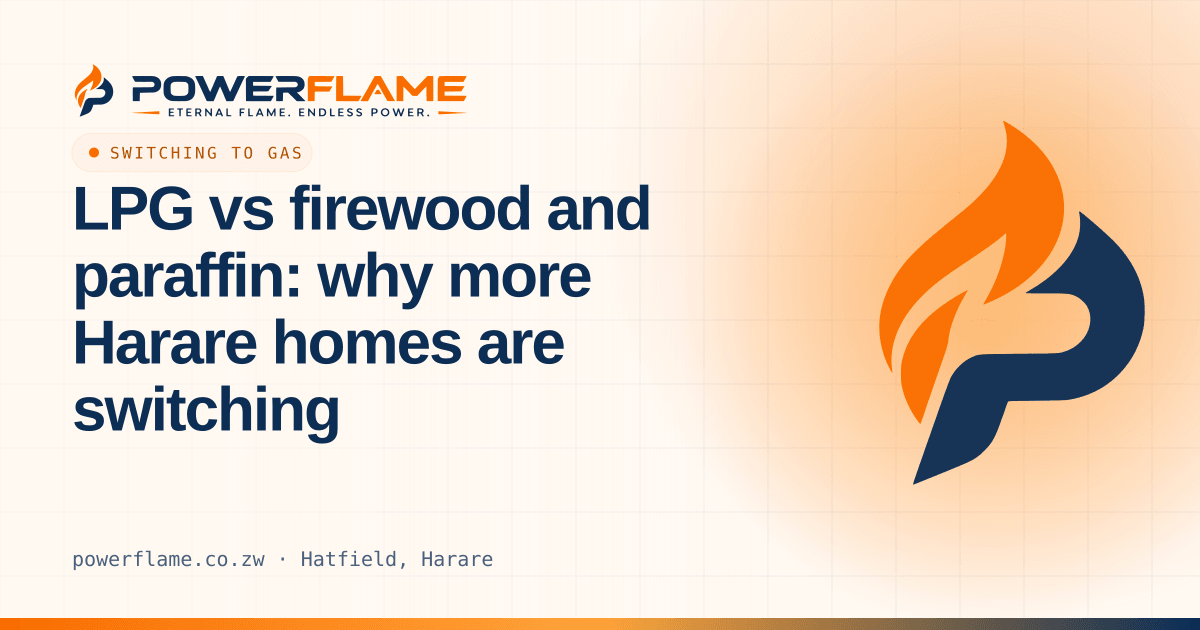
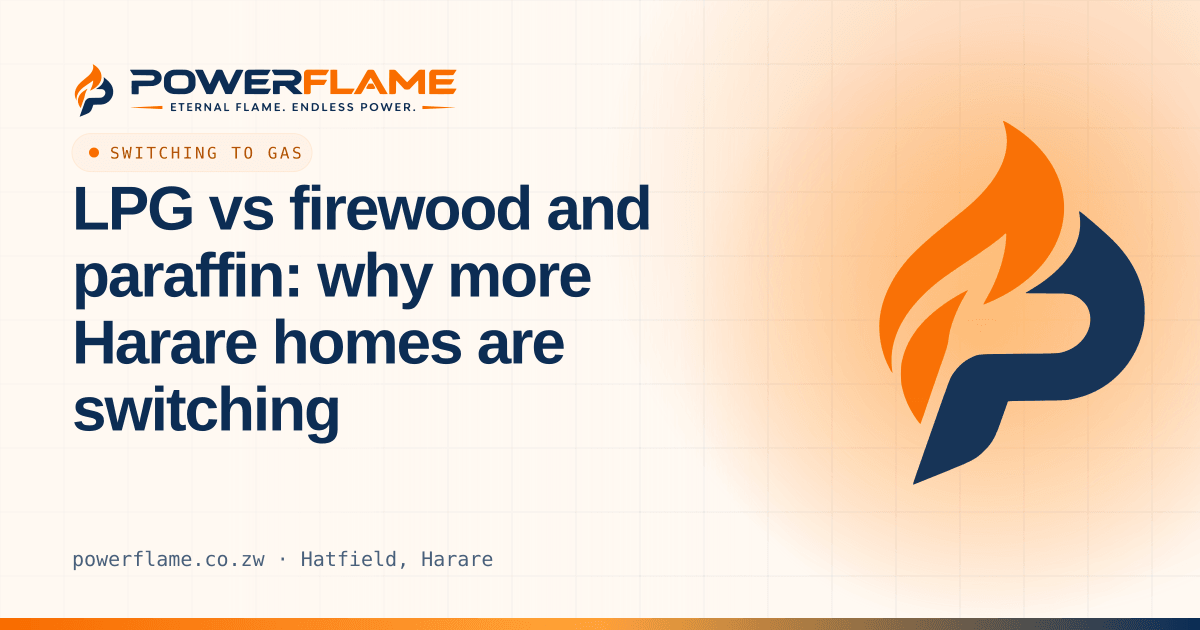
Refactor code structure and remove redundant functions for improved readability and maintainability

Changed region(s): [[0.0925, 0.0905, 0.4008, 0.181], [0.925, 0.9952, 0.9558, 1.0]]

diff --git a/src/components/ui/Logo/paths.ts b/src/components/ui/Logo/paths.ts
@@ -13,21 +13,12 @@ export const MARK_FLAME =
 export const MARK_P =
   'M28.84 12.19C29.13 13.82 28.95 15.18 28.27 16.62C27.28 18.7 25.19 20.75 22.49 22.31C22.09 22.54 21.76 22.75 21.76 22.77C21.76 22.8 22.99 22.82 24.49 22.82C27.53 22.82 27.69 22.84 28.52 23.25C29.06 23.52 29.75 24.19 29.98 24.71C30.99 26.86 29.62 29.54 27.06 30.42C26.18 30.73 26.31 30.72 20.94 30.76C15.33 30.81 15.68 30.78 14.68 31.23C13.59 31.72 12.48 32.81 11.92 33.93C11.72 34.31 10.38 38.05 8.56 43.29C8.16 44.44 7.63 45.95 7.39 46.64C7.14 47.33 6.96 47.92 6.97 47.95C7.01 48.01 7.12 47.96 8.82 47.26C9.58 46.95 10.96 46.39 11.88 46.02C14.9 44.79 15.34 44.55 16.44 43.44C17.46 42.41 17.83 41.72 18.73 39.12C19.11 38.04 19.44 37.11 19.46 37.06C19.51 36.98 20.01 36.96 23.24 36.94C27.26 36.9 27.31 36.9 28.68 36.55C33.11 35.43 36.49 31.76 37.33 27.21C37.48 26.41 37.51 24.51 37.39 23.62C37.01 20.77 35.65 18.19 33.27 15.81C32.32 14.85 29.01 12 28.86 12C28.84 12 28.82 12.09 28.84 12.19';
 
-/** Wordmark "POWERFLAME": 318.86 × 24 viewBox */
-export const WORDMARK_WIDTH = 318.86;
-export const WORDMARK_HEIGHT = 24;
-/** "POWER" (navy) */
-export const WORD_POWER =
-  'M0.06 0.11C0.02 0.18 0.35 0.91 0.8 1.74C1.25 2.58 1.86 3.68 2.13 4.2C2.41 4.72 2.72 5.24 2.81 5.36C2.99 5.56 3.46 5.57 11.13 5.56L19.25 5.54 19.85 5.8C21.66 6.57 22.05 8.77 20.63 10.03C19.77 10.78 20.07 10.76 10.08 10.76C2.54 10.76 0.96 10.78 0.84 10.92C0.74 11.03 0.72 12.86 0.73 17.51L0.77 23.94 4.08 23.94L7.39 23.94 7.42 20.05C7.44 17.77 7.5 16.1 7.57 16.02C7.65 15.93 9.35 15.88 13.92 15.85C20.76 15.82 21.28 15.78 23.11 15.12C25.37 14.31 26.84 12.79 27.5 10.58C27.84 9.45 27.81 6.48 27.45 5.39C26.54 2.68 25 1.34 21.64 0.33C20.75 0.07 20.71 0.07 10.44 0.02C3.44 0 0.12 0.02 0.06 0.11M38.96 0.13C34.04 0.87 31 3.48 30.2 7.66C29.99 8.71 29.96 15.11 30.15 16.32C30.68 19.65 32.73 22.12 35.87 23.26C37.74 23.92 37.67 23.92 44.45 23.98C51.26 24.02 51.98 23.99 53.73 23.44C57.55 22.25 59.5 19.87 60.06 15.78C60.31 13.96 60.17 7.98 59.85 6.83C59.04 3.88 57.03 1.82 54.03 0.84C51.58 0.05 51.91 0.08 45.52 0.05C42.3 0.04 39.35 0.07 38.96 0.13M60.13 0.11C60.08 0.17 60.76 1.62 61.61 3.33C63.03 6.16 64.55 9.32 64.55 9.4C64.55 9.42 64.92 10.21 65.38 11.17C65.84 12.13 66.21 12.92 66.21 12.95C66.21 12.96 66.93 14.57 67.81 16.5C68.7 18.46 69.8 20.87 70.25 21.87C70.71 22.88 71.14 23.78 71.21 23.86C71.29 23.96 72.09 24 74.49 24L77.67 24 77.85 23.73C77.95 23.57 78.29 22.82 78.61 22.04C79.55 19.73 80.84 16.68 81.35 15.55C81.61 14.97 82.23 13.5 82.73 12.3C83.28 11.02 83.73 10.1 83.82 10.08C83.94 10.06 84.17 10.43 84.5 11.21C86.32 15.42 88.28 20.07 88.91 21.64C89.31 22.64 89.71 23.59 89.8 23.74L89.98 24 93.19 23.98L96.39 23.94 97.17 22.29C97.6 21.36 98.15 20.19 98.39 19.68C99.83 16.58 101.13 13.79 102.12 11.7C102.48 10.96 103.02 9.79 103.33 9.1C103.64 8.42 104.55 6.54 105.34 4.91C107.55 0.35 107.62 0.22 107.5 0.11C107.3-0.09 100.48 0.04 100.36 0.24C100.3 0.33 99.57 1.93 98.73 3.78C97.89 5.64 96.98 7.63 96.71 8.22C96.44 8.81 95.88 10 95.47 10.88C94.12 13.75 93.73 14.6 93.62 14.87C93.4 15.45 93.32 15.31 91.74 11.47C90.87 9.32 89.38 5.76 88.65 4.03C88.4 3.42 87.97 2.39 87.71 1.73C87.45 1.06 87.16 0.41 87.06 0.26L86.88 0 83.96 0.02L81.04 0.06 78.74 5.44C77.46 8.39 76.07 11.65 75.64 12.65C75.2 13.66 74.79 14.62 74.73 14.81C74.49 15.44 74.34 15.27 73.56 13.48C73.24 12.73 72.57 11.21 72.06 10.11C71.56 9.01 71.08 7.94 71 7.74C70.91 7.54 70.64 6.96 70.4 6.44C70.17 5.92 69.66 4.81 69.28 3.96C68.9 3.12 68.47 2.13 68.3 1.77C68.15 1.42 67.9 0.87 67.77 0.57L67.52 0 63.85 0C61.76 0 60.17 0.05 60.13 0.11M110.65 0.44C109.71 1.21 109.1 1.82 108.78 2.31L108.47 2.78 108.48 13.25C108.5 19.01 108.53 23.79 108.58 23.87C108.64 23.96 111.72 24 120.47 24L132.28 24 132.72 23.21C132.97 22.76 133.61 21.64 134.14 20.69C134.67 19.74 135.09 18.94 135.06 18.89C135.03 18.83 130.62 18.8 125.27 18.8C117.13 18.8 115.52 18.77 115.4 18.63C115.31 18.53 115.27 17.88 115.29 16.6L115.33 14.72 122.47 14.68C127.73 14.67 129.66 14.62 129.78 14.52C129.87 14.45 130.3 13.84 130.73 13.19C131.16 12.53 131.91 11.44 132.39 10.78C132.91 10.05 133.23 9.52 133.16 9.45C133.1 9.39 129.26 9.33 124.2 9.32L115.33 9.28 115.33 7.45L115.33 5.62 123.63 5.58L131.93 5.56 132.24 5.15C132.73 4.49 135.13 0.22 135.06 0.11C135.03 0.05 129.94 0 123.09 0L111.18 0 110.65 0.44M136.72 0.18C136.67 0.27 136.69 0.43 136.76 0.51C136.82 0.58 137.4 1.66 138.03 2.9C138.67 4.14 139.27 5.24 139.37 5.36C139.54 5.56 139.98 5.57 147.61 5.54C155.66 5.52 155.66 5.52 156.24 5.78C158.51 6.79 158.42 9.72 156.09 10.58C155.57 10.78 154.87 10.81 146.51 10.82C140.95 10.83 137.44 10.89 137.37 10.96C137.3 11.03 137.27 13.53 137.28 17.51L137.32 23.94 140.44 23.98C142.36 23.99 143.61 23.96 143.68 23.89C143.75 23.82 143.8 22.29 143.8 19.96C143.79 17.56 143.83 16.08 143.91 16C144 15.88 144.63 15.84 146.32 15.84L148.6 15.84 149.17 16.33C149.47 16.59 151.37 18.42 153.35 20.41L156.97 24 161.06 24C164.41 24 165.16 23.98 165.16 23.85C165.16 23.75 163.35 21.91 161.14 19.73C158.93 17.56 157.12 15.71 157.12 15.64C157.12 15.55 157.29 15.49 157.57 15.49C159.69 15.49 162.73 13.5 163.71 11.47C164.39 10.04 164.6 7.55 164.17 5.77C163.45 2.7 160.67 0.63 156.63 0.12C154.91-0.09 136.8-0.04 136.72 0.18M40.73 5.57C38.92 5.73 37.38 6.74 36.96 8.02C36.61 9.02 36.73 15.68 37.09 16.46C37.61 17.57 38.64 18.34 40.23 18.77C41.34 19.07 48.84 19.07 50.13 18.76C51.91 18.35 53.08 17.38 53.53 15.96C53.84 14.98 53.83 8.97 53.52 8.07C53.13 6.96 52.06 6.03 50.72 5.67C50.14 5.51 42.23 5.44 40.73 5.57';
-/** "FLAME" (orange) */
-export const WORD_FLAME =
-  'M168.58 0.5C168.38 0.78 168.02 1.38 167.81 1.83L167.41 2.67 167.43 13.3L167.47 23.94 170.72 23.94L173.97 23.94 174.03 19.45L174.09 14.96 175.98 14.94C177.02 14.94 180.12 14.93 182.87 14.92L187.86 14.9 188.43 14.02C190.65 10.51 190.95 10.01 190.85 9.92C190.79 9.86 187.09 9.8 182.51 9.79C176.37 9.77 174.22 9.73 174.14 9.62C174.08 9.54 174.04 8.68 174.05 7.55L174.09 5.62 182.01 5.56L189.93 5.5 191.44 2.86C192.27 1.41 192.92 0.18 192.89 0.12C192.85 0.06 187.46 0.01 180.89 0L168.96-0.01 168.58 0.5M194.49 0.15C194.4 0.28 194.38 3.31 194.39 12.13L194.42 23.94 205.03 23.98L215.63 24 215.92 23.62C216.08 23.41 216.65 22.44 217.18 21.46C217.73 20.49 218.27 19.53 218.4 19.35C218.54 19.15 218.59 18.98 218.52 18.9C218.46 18.85 214.81 18.79 209.79 18.77L201.16 18.74 201.13 9.53C201.12 3.35 201.06 0.27 200.97 0.17C200.78-0.06 194.7-0.07 194.49 0.15M230.97 0.45C230.81 0.69 229.83 2.42 228.79 4.32C226.29 8.87 225.67 9.93 223.67 13.38C222.74 14.99 221.65 16.87 221.26 17.57C220.87 18.25 220.1 19.57 219.56 20.49C218.1 22.94 217.66 23.78 217.73 23.89C217.76 23.95 219.35 24 221.26 24L224.73 24 225.26 23.03C225.54 22.49 226.06 21.52 226.4 20.87C226.76 20.22 227.42 19 227.91 18.17C228.38 17.33 228.77 16.62 228.77 16.59C228.77 16.55 228.86 16.39 228.99 16.22C229.17 15.95 230 14.48 231.31 12.12C231.49 11.8 231.68 11.47 231.72 11.41C231.77 11.35 232.07 10.82 232.37 10.23C233.27 8.54 233.85 7.57 233.97 7.57C234.03 7.57 234.38 8.12 234.76 8.8C235.14 9.48 235.6 10.32 235.8 10.66C235.99 11.01 236.33 11.61 236.55 12C236.76 12.39 237.07 12.92 237.21 13.18C237.36 13.44 237.68 14.03 237.93 14.48C238.18 14.93 238.47 15.45 238.6 15.63C238.72 15.8 238.82 15.97 238.82 16.02C238.82 16.07 238.91 16.24 239.04 16.41C239.16 16.59 239.47 17.13 239.73 17.62C239.99 18.1 240.58 19.15 241.04 19.96C241.51 20.76 241.89 21.43 241.89 21.46C241.89 21.48 242.16 21.97 242.48 22.55C242.81 23.11 243.12 23.67 243.18 23.76C243.29 23.96 250.24 24.09 250.43 23.91C250.52 23.81 249.77 22.37 248.96 21.1C248.81 20.84 247.91 19.31 246.98 17.67C246.05 16.06 244.95 14.15 244.54 13.44C244.13 12.74 243.78 12.15 243.78 12.12C243.78 12.09 243.52 11.62 243.2 11.09C242.9 10.55 242.4 9.68 242.12 9.16C240.26 5.77 237.21 0.37 237.03 0.15C236.93 0.04 236.3 0 234.08 0L231.25 0 230.97 0.45M252.41 0.11L252 0.18 252 12.06L252 23.94 255.19 23.94L258.38 23.94 258.42 17.08C258.43 13.32 258.49 10.19 258.55 10.13C258.6 10.08 259.63 11.07 260.82 12.32C262.01 13.57 263.69 15.32 264.56 16.22C265.41 17.11 266.31 18.08 266.55 18.37L267 18.92 269.32 18.92L271.64 18.92 273.42 17C275.92 14.31 280.13 10.05 280.28 10.05C280.39 10.05 280.42 11.83 280.42 16.93C280.42 20.71 280.47 23.85 280.53 23.91C280.59 23.96 282.07 23.99 283.81 23.98L287 23.94 287 12.12C287.01 5.25 286.96 0.24 286.9 0.15C286.82 0.04 286.11 0 284.05 0L281.31 0 277.47 4C275.35 6.18 272.67 8.97 271.51 10.2C270.34 11.42 269.34 12.41 269.31 12.41C269.26 12.41 269.05 12.21 268.82 11.95C268.61 11.7 266.41 9.32 263.95 6.67C261.49 4.01 259.09 1.42 258.63 0.92L257.79 0 255.31 0.01C253.94 0.02 252.64 0.06 252.41 0.11M292.82 0.15C292.5 0.4 291.32 2.39 291.23 2.83C291.17 3.06 291.13 7.91 291.13 13.6L291.13 23.94 303.58 23.94L316.03 23.94 317.38 21.52C318.12 20.18 318.74 19.02 318.74 18.95C318.74 18.83 316.53 18.8 308.25 18.77L297.75 18.74 297.75 16.79L297.75 14.84 305.64 14.78C310.66 14.74 313.56 14.67 313.63 14.6C313.93 14.28 316.73 9.77 316.69 9.66C316.67 9.59 313.42 9.54 307.21 9.53L297.75 9.52 297.75 7.57L297.75 5.62 306.76 5.58L315.77 5.56 316.86 3.63C317.45 2.58 318.12 1.4 318.35 1.02C318.57 0.64 318.73 0.25 318.69 0.15C318.6-0.07 293.11-0.08 292.82 0.15M232.82 13.54C232.49 13.95 230.78 17.08 230.78 17.27C230.78 17.41 237.36 17.41 237.46 17.26C237.54 17.12 237.22 16.49 236.24 14.85C235.19 13.09 235.22 13.12 234.09 13.12C233.17 13.12 233.15 13.12 232.82 13.54';
-
-/** Tagline "ETERNAL FLAME. ENDLESS POWER.": same width as the wordmark */
-export const TAGLINE_HEIGHT = 7.85;
-/** Tagline lettering (navy) */
-export const TAGLINE_TEXT =
-  'M206.74 0.15C205.68 0.47 205.13 0.96 204.92 1.77C204.57 3.08 205.31 3.91 207.35 4.46C208.88 4.87 209.4 5.61 208.67 6.35C208.17 6.85 206.94 6.8 206.25 6.25C205.53 5.69 205.52 5.68 205.15 6.04C204.7 6.48 204.71 6.58 205.3 7.08C207.12 8.64 210.41 7.72 210.43 5.64C210.43 4.41 209.84 3.89 207.78 3.29C206.57 2.94 206.13 2.42 206.4 1.7C206.63 1.09 207.9 1 208.72 1.53C209.21 1.86 209.29 1.89 209.61 1.76C210.2 1.51 210.27 1.32 209.9 0.94C209.22 0.23 207.71-0.14 206.74 0.15M239.94 0.19C236.36 1.15 235.92 5.91 239.27 7.45C240.24 7.89 241.9 7.94 242.77 7.53C243.46 7.21 244.31 6.43 244.71 5.75C245.18 4.95 245.18 3.04 244.71 2.15C243.85 0.5 241.84-0.33 239.94 0.19M44.09 0.22L43.03 0.29 43.03 0.76L43.03 1.23 44.03 1.29L45.02 1.35 45.08 4.51L45.14 7.67 45.79 7.67L46.43 7.67 46.45 4.65C46.46 2.99 46.5 1.55 46.54 1.46C46.58 1.35 46.87 1.29 47.57 1.26L48.54 1.23 48.57 0.84C48.64 0.16 48.51 0.12 46.73 0.14C45.86 0.15 44.66 0.19 44.09 0.22M53.64 0.21C52.71 0.22 51.89 0.29 51.8 0.36C51.64 0.49 51.69 7.47 51.86 7.65C51.91 7.69 53.02 7.72 54.35 7.71L56.73 7.67 56.73 7.2L56.73 6.73 55.05 6.7C54.02 6.69 53.29 6.62 53.2 6.53C53.08 6.44 53.05 6.15 53.07 5.46L53.1 4.51 54.56 4.47C56.09 4.44 56.32 4.37 56.32 3.92C56.32 3.48 56.09 3.41 54.56 3.37L53.1 3.34 53.1 2.34L53.1 1.35 54.86 1.29L56.62 1.23 56.65 0.78C56.7 0.19 56.52 0.15 53.64 0.21M121 0.27C120.88 0.46 120.01 2.42 118.84 5.19C118.33 6.41 117.93 7.47 117.97 7.56C118.01 7.69 118.19 7.73 118.64 7.71L119.24 7.67 119.57 6.91L119.89 6.15 121.62 6.15L123.35 6.15 123.66 6.91L123.96 7.67 124.63 7.71C125.18 7.73 125.3 7.71 125.3 7.55C125.3 7.45 124.84 6.26 124.28 4.94C123.73 3.61 123.08 2.07 122.86 1.52C122.64 0.97 122.39 0.46 122.3 0.36C122.1 0.14 121.12 0.08 121 0.27M128.59 0.28C128.49 0.39 128.46 1.5 128.48 4.05L128.52 7.67 129.16 7.67L129.8 7.67 129.84 5.54C129.86 3.93 129.91 3.4 130.01 3.4C130.09 3.4 130.55 4.17 131.03 5.11C132.3 7.58 132.25 7.49 132.74 7.49L133.15 7.49 134.14 5.45C135.44 2.76 135.47 2.76 135.51 5.54L135.54 7.67 136.13 7.67L136.71 7.67 136.75 4.03C136.78-0.02 136.81 0.12 135.99 0.21L135.48 0.26 134.91 1.39C133.24 4.67 132.81 5.45 132.68 5.45C132.6 5.45 131.95 4.32 131.22 2.95C130.49 1.58 129.85 0.42 129.79 0.36C129.58 0.16 128.73 0.11 128.59 0.28M215.05 0.29C214.48 0.49 213.86 1.18 213.75 1.72C213.49 3.07 214.16 3.86 216.01 4.44C217.31 4.84 217.72 5.15 217.72 5.74C217.72 6.38 217.35 6.62 216.35 6.62C215.56 6.62 215.43 6.58 214.95 6.24C214.3 5.78 214.17 5.77 213.85 6.12C213.47 6.52 213.53 6.72 214.08 7.13C216.29 8.76 219.7 7.41 219.09 5.15C218.85 4.22 218.28 3.81 216.57 3.28C215.46 2.94 215.11 2.67 215.11 2.17C215.11 1.15 216.94 0.8 217.67 1.67C217.91 1.96 218.31 1.92 218.62 1.58L218.9 1.29 218.58 0.96C217.82 0.16 216.26-0.13 215.05 0.29M228.05 0.25C228.01 0.34 228 2.05 228.01 4.04L228.05 7.67 228.69 7.67L229.34 7.67 229.4 6.44L229.46 5.21 230.86 5.14C232 5.09 232.36 5.04 232.76 4.82C234.5 3.91 234.34 1.19 232.5 0.4C231.87 0.12 228.14 0 228.05 0.25M248.17 0.3C248.13 0.39 248.23 0.76 248.37 1.14C248.58 1.71 250.51 7.14 250.65 7.59C250.72 7.79 252.1 7.79 252.16 7.59C252.2 7.51 252.49 6.57 252.82 5.5C253.16 4.44 253.46 3.41 253.51 3.22C253.68 2.45 253.91 2.83 254.7 5.27L255.49 7.67 256.2 7.71C256.72 7.73 256.93 7.69 256.96 7.59C257.09 7.15 258.39 3.58 258.95 2.12C259.3 1.18 259.57 0.39 259.54 0.33C259.44 0.18 258.23 0.22 258.12 0.39C258.03 0.54 257.89 0.9 256.89 3.68C256.55 4.63 256.22 5.42 256.17 5.43C256.1 5.43 255.71 4.39 255.3 3.1C254.29-0.07 254.44 0.21 253.8 0.26L253.25 0.29 252.46 2.79C251.68 5.25 251.52 5.64 251.36 5.41C251.33 5.34 250.94 4.22 250.52 2.9C250.1 1.59 249.69 0.47 249.62 0.4C249.41 0.19 248.24 0.12 248.17 0.3M271.79 0.29C271.7 0.39 271.68 1.71 271.69 4.05L271.73 7.67 272.37 7.67L273.02 7.67 273.05 6.45C273.09 4.98 273.12 4.92 274.06 4.92C274.94 4.92 274.98 4.96 275.94 6.59L276.62 7.73 277.3 7.73C277.68 7.73 278.02 7.68 278.05 7.61C278.09 7.55 277.72 6.89 277.23 6.15C276.75 5.4 276.35 4.74 276.35 4.68C276.35 4.64 276.54 4.48 276.75 4.36C277.48 3.92 277.89 2.8 277.63 1.9C277.43 1.17 276.81 0.57 275.98 0.3C275.18 0.06 272 0.05 271.79 0.29M35.07 0.37C35.04 0.46 35.02 2.13 35.04 4.1L35.07 7.67 37.59 7.67L40.11 7.67 40.11 7.2L40.11 6.73 38.29 6.67L36.48 6.62 36.48 5.56L36.48 4.51 37.93 4.47C39.46 4.44 39.7 4.37 39.7 3.92C39.7 3.48 39.46 3.41 37.93 3.37L36.48 3.34 36.48 2.34L36.48 1.35 38.23 1.29L39.99 1.23 39.99 0.76L39.99 0.29 37.55 0.26C35.67 0.23 35.11 0.26 35.07 0.37M60.25 0.39C60.21 0.47 60.2 2.13 60.21 4.1L60.25 7.67 60.89 7.67L61.54 7.67 61.59 6.38L61.65 5.09 62.41 5.06C63.35 5.02 63.46 5.11 64.26 6.63L64.81 7.67 65.51 7.71C65.88 7.73 66.24 7.69 66.3 7.63C66.35 7.59 66.03 6.93 65.56 6.15L64.73 4.75 65.21 4.36C65.87 3.82 66.04 3.43 66.04 2.58C66.04 1.44 65.55 0.73 64.53 0.37C63.96 0.18 60.32 0.19 60.25 0.39M69.73 0.39C69.7 0.47 69.69 2.13 69.7 4.1L69.73 7.67 70.32 7.67L70.9 7.67 70.94 5.3C70.96 3.51 71 2.93 71.11 2.93C71.18 2.93 71.7 3.47 72.25 4.12C72.8 4.78 73.46 5.55 73.71 5.84C73.97 6.14 74.42 6.69 74.71 7.06C75.21 7.71 75.26 7.74 75.7 7.71L76.17 7.67 76.17 3.98L76.17 0.29 75.53 0.29L74.88 0.29 74.85 2.61C74.83 4.5 74.79 4.93 74.66 4.89C74.51 4.86 71.52 1.38 70.96 0.59C70.69 0.21 69.85 0.07 69.73 0.39M82.36 0.39C82.29 0.46 81.96 1.18 81.62 1.99C81.29 2.8 80.81 3.92 80.56 4.51C79.11 7.92 79.14 7.75 80.06 7.71L80.73 7.67 81.03 6.91L81.34 6.15 83.02 6.15L84.71 6.15 85.01 6.91L85.32 7.67 85.95 7.71C86.65 7.75 86.85 7.63 86.66 7.31C86.59 7.18 86.2 6.26 85.79 5.27C84.33 1.76 83.82 0.53 83.7 0.39C83.63 0.3 83.33 0.23 83.02 0.23C82.72 0.23 82.41 0.3 82.36 0.39M89.92 0.28C89.9 0.32 89.87 1.99 89.89 4L89.9 7.67 92.23 7.67L94.56 7.67 94.59 7.22C94.64 6.67 94.64 6.67 92.78 6.58L91.28 6.5 91.22 3.4L91.16 0.29 90.58 0.26C90.25 0.23 89.96 0.25 89.92 0.28M102.52 0.37C102.48 0.46 102.47 2.13 102.48 4.1L102.52 7.67 103.16 7.67L103.81 7.67 103.87 6.21L103.93 4.74 105.27 4.68L106.62 4.63 106.62 4.1L106.62 3.57 105.27 3.51L103.93 3.45 103.93 2.4L103.93 1.35 105.62 1.29L107.32 1.23 107.32 0.76L107.32 0.29 104.94 0.26C103.11 0.23 102.56 0.26 102.52 0.37M110.72 0.37C110.68 0.46 110.67 2.13 110.68 4.1L110.72 7.67 113 7.67L115.28 7.67 115.28 7.2L115.28 6.73 113.82 6.65C113.01 6.6 112.3 6.53 112.22 6.51C112.1 6.46 112.06 5.69 112.04 3.37L112 0.29 111.38 0.26C110.96 0.23 110.75 0.27 110.72 0.37M140.69 0.37C140.66 0.46 140.65 2.13 140.66 4.1L140.69 7.67 143.15 7.67L145.61 7.67 145.61 7.2L145.61 6.73 143.9 6.7C142.72 6.67 142.15 6.63 142.06 6.52C142.01 6.44 141.99 5.98 142.03 5.45L142.1 4.51 143.62 4.45L145.14 4.39 145.14 3.92L145.14 3.45 143.62 3.4L142.1 3.34 142.1 2.34L142.1 1.35 143.73 1.31C145.52 1.28 145.71 1.22 145.65 0.66L145.61 0.29 143.18 0.26C141.29 0.23 140.73 0.26 140.69 0.37M159.2 0.37C159.16 0.46 159.15 2.13 159.16 4.1L159.2 7.67 161.65 7.67L164.11 7.67 164.11 7.2L164.11 6.73 162.42 6.7C161.49 6.69 160.67 6.62 160.61 6.56C160.47 6.42 160.47 4.71 160.61 4.57C160.67 4.51 161.41 4.44 162.24 4.43L163.76 4.39 163.8 4.06C163.87 3.47 163.7 3.4 162.12 3.4C160.4 3.4 160.4 3.4 160.45 2.2L160.48 1.35 162.3 1.29L164.11 1.23 164.11 0.76L164.11 0.29 161.68 0.26C159.79 0.23 159.23 0.26 159.2 0.37M167.74 0.39C167.71 0.47 167.7 2.13 167.71 4.1L167.74 7.67 168.33 7.67L168.92 7.67 169 5.68C169.06 4.58 169.07 3.52 169.03 3.33C168.89 2.52 169.29 2.85 171.32 5.26C173.35 7.66 173.36 7.67 173.83 7.67L174.3 7.67 174.3 3.98L174.3 0.29 173.72 0.29L173.13 0.29 173.1 2.67C173.07 4.56 173.04 5.04 172.91 5.04C172.78 5.04 170.55 2.52 169.17 0.8C168.77 0.29 168.67 0.23 168.26 0.23C167.99 0.23 167.77 0.29 167.74 0.39M178.17 0.37C178.13 0.46 178.12 2.13 178.13 4.1L178.17 7.67 180.22 7.67C182.18 7.67 182.29 7.66 182.92 7.37C184.36 6.69 184.95 5.7 184.95 3.98C184.93 2.3 184.33 1.25 182.96 0.57C182.43 0.32 182.23 0.29 180.3 0.26C178.66 0.22 178.21 0.26 178.17 0.37M188.55 0.37C188.41 0.55 188.47 7.48 188.62 7.63C188.68 7.69 189.71 7.72 190.93 7.71L193.14 7.67 193.26 7.3C193.44 6.64 193.28 6.57 191.54 6.53L189.99 6.5 189.93 3.4L189.88 0.29 189.28 0.26C188.89 0.23 188.63 0.28 188.55 0.37M196.5 0.4C196.41 0.52 196.37 1.56 196.4 4.11L196.43 7.67 199.01 7.67L201.59 7.67 201.59 7.2L201.59 6.73 199.71 6.67L197.84 6.62 197.84 5.56L197.84 4.51 199.48 4.45L201.12 4.39 201.15 4.06C201.22 3.47 201.06 3.4 199.48 3.4C197.76 3.4 197.76 3.4 197.8 2.2L197.84 1.35 199.65 1.29L201.47 1.23 201.47 0.76L201.47 0.29 199.06 0.26C197.11 0.23 196.62 0.26 196.5 0.4M262.95 0.37C262.91 0.46 262.9 2.13 262.91 4.1L262.95 7.67 265.52 7.67L268.1 7.67 268.1 7.2L268.1 6.73 266.22 6.67L264.35 6.62 264.35 5.56L264.35 4.51 265.93 4.45L267.51 4.39 267.55 4.03C267.61 3.48 267.41 3.41 265.8 3.37L264.35 3.34 264.35 2.34L264.35 1.35 266.11 1.29L267.86 1.23 267.86 0.76L267.86 0.29 265.43 0.26C263.54 0.23 262.98 0.26 262.95 0.37M229.53 1.33C229.43 1.44 229.4 1.93 229.42 2.76L229.46 4.04 230.58 4.04C231.55 4.04 231.75 4 231.97 3.81C232.93 2.94 232.65 1.6 231.45 1.3C230.72 1.11 229.69 1.14 229.53 1.33M240.25 1.35C237.94 2.2 237.78 5.36 239.98 6.39C242.65 7.63 245.02 4.05 242.89 1.99C242.1 1.23 241.18 1.01 240.25 1.35M273.18 1.33C272.99 1.53 273.05 3.58 273.25 3.75C273.58 4.02 275.46 3.85 275.81 3.52C276.46 2.92 276.42 1.92 275.74 1.49C275.43 1.28 273.37 1.16 273.18 1.33M61.69 1.36C61.63 1.41 61.59 1.96 61.59 2.58C61.59 4.03 61.61 4.04 62.96 3.92C64.26 3.82 64.64 3.52 64.64 2.61C64.64 1.66 64.22 1.36 62.85 1.31C62.25 1.29 61.73 1.31 61.69 1.36M179.59 1.37C179.43 1.52 179.5 6.53 179.66 6.59C180.02 6.72 181.63 6.57 182.14 6.35C184.16 5.45 183.94 2.1 181.81 1.46C181.22 1.29 179.73 1.22 179.59 1.37M82.34 3.52C82.03 4.32 81.88 4.87 81.95 4.94C82 5 82.52 5.04 83.09 5.01C84.05 4.98 84.14 4.95 84.11 4.74C84.09 4.34 83.16 2.28 83 2.25C82.91 2.24 82.66 2.69 82.34 3.52M120.96 3.51C120.68 4.23 120.49 4.84 120.54 4.88C120.69 5.04 122.7 5.04 122.75 4.88C122.78 4.8 122.6 4.24 122.36 3.63C122.11 3.02 121.91 2.45 121.9 2.38C121.9 2.3 121.81 2.22 121.69 2.22C121.51 2.22 121.35 2.52 120.96 3.51M149.07 6.32C148.53 6.86 148.96 7.85 149.72 7.85C150.31 7.85 150.59 7.55 150.59 6.97C150.59 6.15 149.64 5.75 149.07 6.32M281.41 6.36C280.88 6.92 281.31 7.85 282.09 7.85C282.86 7.85 283.32 6.85 282.79 6.32C282.45 5.98 281.74 6.01 281.41 6.36';
-/** Orange rules either side of the tagline */
-export const TAGLINE_RULES =
-  'M25.41 2.88C25.25 2.9 24.04 2.97 22.72 3.04C17.89 3.28 6.45 3.93 4.22 4.1C3.35 4.16 2.24 4.22 1.74 4.22C-0.57 4.22-0.36 4.52 2.03 4.61C4.2 4.7 7.22 4.85 11.83 5.09C13.6 5.2 16.67 5.35 18.68 5.45C20.68 5.55 23.1 5.67 24.06 5.71C25.16 5.77 25.88 5.77 25.97 5.7C26.08 5.62 26.11 5.22 26.09 4.23C26.05 2.78 26.07 2.8 25.41 2.88M291.87 2.95C291.83 3.04 291.82 3.72 291.83 4.46L291.87 5.8 293.33 5.78C294.14 5.77 296.46 5.68 298.48 5.57C300.51 5.47 303.23 5.33 304.52 5.27C305.8 5.2 308.71 5.04 310.97 4.92C313.23 4.79 315.73 4.67 316.53 4.67C319.59 4.64 319.29 4.34 316.07 4.2C314.81 4.16 311.87 4 309.55 3.86C307.23 3.74 303.84 3.55 302 3.45C300.16 3.36 297.88 3.23 296.9 3.17C295.94 3.1 294.57 3.02 293.86 2.99C293.15 2.95 292.43 2.89 292.24 2.86C292.03 2.81 291.9 2.85 291.87 2.95';
+/** Name block: "POWERFLAME" over the tagline, 251.23 × 32 viewBox */
+export const NAME_WIDTH = 251.23;
+export const NAME_HEIGHT = 32;
+/** Navy parts: "POWER" and the tagline lettering */
+export const NAME_NAVY =
+  'M0.12 0.08C-0.09 0.19-0.01 0.35 1.07 1.99C1.66 2.87 2.24 3.75 2.35 3.93L2.55 4.26 9.77 4.29C15.53 4.32 17.04 4.35 17.26 4.42C18.33 4.77 18.89 5.44 18.89 6.33C18.88 7.33 18.14 8.12 16.94 8.41C16.57 8.49 15.4 8.51 9.1 8.51C1.23 8.51 1.39 8.5 1.27 8.82C1.18 9.04 1.22 18.83 1.31 18.91C1.37 18.97 2.04 19 3.92 19C6.28 19 6.45 18.99 6.56 18.87C6.66 18.76 6.67 18.42 6.69 15.76L6.71 12.77 12.02 12.73C15.79 12.7 17.47 12.67 17.8 12.61C20.96 12.05 23.12 10.61 23.94 8.54C24.82 6.34 24.3 3.81 22.62 2.13C21.51 1.02 19.51 0.21 17.65 0.1C16.45 0.03 0.23 0.01 0.12 0.08M33.46 0.1C29.62 0.68 27.03 2.84 26.23 6.12C26.06 6.83 26.02 12.11 26.18 12.89C26.67 15.32 28.19 17.08 30.74 18.18C31.15 18.35 32.3 18.64 33.1 18.77C34.01 18.91 41.09 18.98 42.34 18.86C46.95 18.41 49.86 15.93 50.39 12C50.44 11.65 50.45 10.56 50.43 9.04C50.41 6.72 50.4 6.61 50.23 5.95C49.53 3.26 47.86 1.56 44.93 0.58C43.36 0.06 43.17 0.04 38.37 0.03C35.05 0.01 33.94 0.03 33.46 0.1M91.02 0.12C90.13 0.3 89.39 0.81 88.84 1.64C88.2 2.58 88.25 1.91 88.23 10.86C88.22 15.95 88.24 18.75 88.28 18.8C88.33 18.84 91.47 18.86 97.16 18.86C105.53 18.86 105.97 18.86 106.09 18.74C106.15 18.68 106.49 18.15 106.84 17.57C107.2 16.99 107.7 16.16 107.97 15.72C108.48 14.91 108.52 14.78 108.37 14.65C108.3 14.59 106.21 14.57 100.9 14.55L93.51 14.54 93.51 13.04L93.51 11.54 98.84 11.52L104.16 11.51 104.36 11.25C104.47 11.11 104.8 10.63 105.11 10.18C105.41 9.73 105.92 8.99 106.24 8.54C106.83 7.72 106.9 7.57 106.73 7.43C106.67 7.38 104.79 7.35 100.08 7.34L93.51 7.32 93.51 5.82L93.51 4.32 99.62 4.31L105.73 4.29 105.83 4.14C105.88 4.05 106.43 3.18 107.06 2.2C108.21 0.39 108.26 0.28 108.09 0.14C107.94 0.02 91.6 0 91.02 0.12M110.67 0.06C109.55 0.1 109.35 0.15 109.2 0.42C109.09 0.63 109.15 0.78 109.88 2.02C110.25 2.65 110.66 3.37 110.8 3.61C110.93 3.86 111.1 4.11 111.17 4.17C111.28 4.28 111.92 4.29 118.03 4.3L124.77 4.32 125.17 4.49C126.26 4.92 126.82 5.72 126.68 6.62C126.54 7.46 125.65 8.24 124.6 8.44C124.37 8.49 121.66 8.51 117.26 8.51L110.29 8.51 110.12 8.68L109.96 8.84 109.96 13.82C109.96 18.48 109.96 18.79 110.08 18.84C110.14 18.87 111.31 18.88 112.68 18.86L115.17 18.83 115.2 15.73L115.23 12.63 117.2 12.61L119.16 12.59 119.92 13.29C121.62 14.86 125.19 18.22 125.52 18.57L125.8 18.86 129.28 18.86C132.68 18.86 132.77 18.86 132.77 18.73C132.77 18.65 132.39 18.25 131.8 17.69C131.27 17.19 130.46 16.43 130.01 16C128.99 15.02 126.39 12.65 126.26 12.58C126.08 12.47 126.15 12.33 126.42 12.29C128.26 11.98 129.92 10.99 130.85 9.64C131.64 8.51 131.95 7.55 131.95 6.3C131.95 2.95 129.46 0.54 125.6 0.14C124.88 0.06 112.38 0 110.67 0.06M50.09 0.11C49.97 0.23 50.09 0.57 50.62 1.62C51.9 4.15 54.47 9.4 54.47 9.5C54.47 9.52 54.76 10.16 55.12 10.91C55.48 11.67 55.88 12.52 56.02 12.8C56.15 13.08 56.46 13.75 56.72 14.3C56.97 14.84 57.38 15.71 57.63 16.24C58.42 17.88 58.69 18.46 58.69 18.55C58.69 18.84 58.82 18.86 61.22 18.86C63.96 18.86 63.59 19.06 64.44 17.1C64.56 16.81 64.96 15.95 65.33 15.18C65.69 14.42 66.11 13.51 66.26 13.17C66.41 12.84 66.8 11.98 67.13 11.27C67.46 10.56 67.89 9.62 68.08 9.19C68.59 8.06 68.64 8 68.77 8.35C68.81 8.45 69.02 8.93 69.25 9.42C69.81 10.63 69.92 10.89 69.92 10.92C69.92 10.94 70.05 11.22 70.2 11.55C70.36 11.88 70.72 12.7 71.01 13.38C71.69 14.94 72.02 15.7 72.48 16.71C72.68 17.16 72.95 17.79 73.09 18.11C73.22 18.42 73.37 18.72 73.41 18.77C73.47 18.84 73.99 18.86 75.93 18.84L78.38 18.83 78.81 17.91C79.87 15.6 80.21 14.89 81.3 12.68C81.94 11.38 83.02 9.17 83.69 7.76C84.36 6.36 85.45 4.11 86.11 2.77C87.07 0.82 87.3 0.31 87.24 0.22C87.15 0.07 82.16 0 81.83 0.14C81.46 0.29 81.51 0.2 78.66 6.13C78.41 6.63 77.96 7.58 77.65 8.24C76.08 11.54 76.13 11.46 76 11.28C75.97 11.24 75.83 10.95 75.7 10.66C75.33 9.85 73.93 6.74 73.6 5.99C73.11 4.92 72.45 3.42 72.06 2.52C71.34 0.88 71.09 0.38 70.91 0.24C70.64 0.03 66.87-0.01 66.55 0.19C66.39 0.29 66.23 0.57 65.78 1.57C64.45 4.48 64.04 5.38 63.15 7.32C62.63 8.44 62.1 9.64 61.96 9.97C61.32 11.51 61.32 11.52 61.07 10.94C60.89 10.52 60.2 9.03 59.4 7.35C59.09 6.7 58.73 5.93 58.6 5.65C58.47 5.37 58.11 4.6 57.81 3.95C56.87 1.96 56.77 1.75 56.61 1.4C56.16 0.39 56.08 0.26 55.85 0.16C55.62 0.06 50.18 0.02 50.09 0.11M34.43 4.36C32.91 4.62 31.86 5.52 31.55 6.85C31.39 7.56 31.44 11.94 31.62 12.43C31.92 13.27 32.68 14 33.56 14.3C34.42 14.59 34.99 14.62 38.74 14.57L42.25 14.53 42.74 14.35C43.98 13.91 44.65 13.16 44.91 11.91C45.06 11.18 45.02 7.37 44.85 6.79C44.48 5.52 43.54 4.68 42.18 4.39C41.65 4.28 35.07 4.25 34.43 4.36M162.02 25.74C160.53 26.12 159.97 27.65 160.99 28.6C161.36 28.93 161.51 29 162.41 29.24C163.2 29.45 163.58 29.64 163.72 29.9C164.27 30.97 162.23 31.4 161.3 30.41C161.07 30.16 160.95 30.18 160.57 30.52L160.25 30.82 160.41 31.03C161.02 31.85 162.66 32.23 163.78 31.8C164.28 31.6 164.86 31.06 164.96 30.67C165.26 29.6 164.77 28.79 163.64 28.45C162.05 27.98 162.06 27.99 161.84 27.73C161.08 26.86 162.71 26.2 163.7 26.98L163.96 27.18 164.33 26.92C164.76 26.62 164.79 26.5 164.46 26.25C163.84 25.78 162.76 25.55 162.02 25.74M168.81 25.73C167.81 25.95 167.16 26.72 167.24 27.59C167.3 28.34 167.79 28.82 168.78 29.11C169.88 29.44 170.02 29.5 170.24 29.69C170.84 30.21 170.47 30.88 169.54 30.96C169.02 31.01 168.68 30.9 168.2 30.54C167.71 30.17 167.75 30.17 167.38 30.48C167 30.79 167.01 30.89 167.39 31.25C168.64 32.4 171.1 32.13 171.62 30.78C171.79 30.35 171.77 29.73 171.59 29.37C171.28 28.78 170.97 28.61 169.28 28.12C168.54 27.91 168.23 27.5 168.47 27.04C168.75 26.51 169.82 26.49 170.43 26.99C170.69 27.21 170.7 27.21 171.1 26.91C171.51 26.61 171.51 26.56 171.18 26.28C170.59 25.79 169.61 25.56 168.81 25.73M186.93 25.74C184.74 26.19 183.73 28.38 184.8 30.38C185.33 31.39 186.34 31.93 187.68 31.93C189.28 31.93 190.4 31.15 190.84 29.73C191.55 27.4 189.42 25.23 186.93 25.74M31.57 25.78C31.48 25.87 31.52 31.76 31.61 31.85C31.72 31.97 35.34 31.97 35.46 31.85C35.56 31.74 35.56 31.1 35.46 30.99C35.4 30.93 35 30.91 34.08 30.91C33.16 30.91 32.75 30.89 32.69 30.83C32.59 30.72 32.58 29.37 32.69 29.31C32.73 29.28 33.3 29.24 33.96 29.22L35.17 29.17 35.17 28.77L35.17 28.36 33.98 28.34C33.33 28.33 32.76 28.29 32.72 28.26C32.66 28.21 32.64 27.93 32.64 27.46L32.65 26.72 33.94 26.7C35.43 26.68 35.42 26.69 35.39 26.15L35.37 25.77 33.49 25.75C32.46 25.74 31.6 25.75 31.57 25.78M37.36 25.78C37.27 25.86 37.31 26.61 37.4 26.67C37.44 26.7 37.8 26.73 38.18 26.73C38.57 26.74 38.92 26.77 38.95 26.8C38.98 26.84 39.02 27.98 39.03 29.35L39.05 31.83 39.59 31.83L40.14 31.83 40.17 29.28L40.2 26.72 40.95 26.7C41.84 26.68 41.89 26.66 41.86 26.15L41.84 25.77 39.62 25.75C38.4 25.74 37.38 25.76 37.36 25.78M44.03 25.78C43.97 25.84 43.97 31.78 44.03 31.82C44.06 31.83 44.94 31.86 45.99 31.87L47.9 31.9 47.9 31.42L47.9 30.94 46.58 30.93C45.74 30.91 45.22 30.88 45.16 30.83C45.05 30.74 45.03 29.38 45.15 29.31C45.19 29.28 45.73 29.26 46.35 29.25L47.49 29.24 47.49 28.8L47.49 28.36 46.3 28.32L45.11 28.29 45.09 27.55C45.07 27.08 45.09 26.78 45.14 26.73C45.19 26.68 45.66 26.66 46.43 26.66C47.23 26.66 47.68 26.63 47.73 26.58C47.77 26.54 47.79 26.34 47.78 26.14L47.76 25.77 45.92 25.75C44.91 25.74 44.06 25.75 44.03 25.78M50.21 25.82C50.19 25.87 50.19 27.25 50.19 28.9L50.21 31.9 50.7 31.92C51.33 31.94 51.33 31.95 51.35 30.77L51.37 29.79 51.91 29.78C52.58 29.77 52.58 29.77 53.67 31.62L53.85 31.93 54.43 31.93C54.75 31.93 55.02 31.9 55.04 31.87C55.06 31.84 54.79 31.32 54.43 30.72C54.08 30.12 53.79 29.59 53.79 29.55C53.79 29.52 53.87 29.44 53.97 29.39C54.91 28.9 55.14 27.21 54.38 26.41C54.14 26.15 53.62 25.9 53.14 25.81C52.56 25.7 50.25 25.71 50.21 25.82M57.31 25.78C57.28 25.81 57.26 27.17 57.26 28.81C57.26 32.18 57.21 31.9 57.84 31.9C58.38 31.89 58.35 32.01 58.35 29.85C58.35 28.35 58.37 27.92 58.43 27.92C58.48 27.92 58.66 28.11 58.82 28.34C58.99 28.58 59.6 29.42 60.17 30.23C61.52 32.11 61.35 31.94 61.89 31.92L62.33 31.9 62.37 31.48C62.38 31.25 62.38 29.87 62.37 28.42L62.33 25.77 61.82 25.77L61.31 25.77 61.29 27.76C61.28 29.29 61.25 29.75 61.19 29.75C61.12 29.75 60.18 28.53 58.65 26.43L58.17 25.77 57.76 25.75C57.54 25.74 57.33 25.75 57.31 25.78M66.88 25.82C66.84 25.87 66.71 26.18 66.59 26.52C66.46 26.86 66.21 27.48 66.03 27.91C65.84 28.35 65.57 29 65.43 29.38C65.29 29.75 65.01 30.44 64.82 30.91C64.63 31.37 64.49 31.8 64.51 31.84C64.53 31.9 64.69 31.93 65.01 31.93C65.56 31.93 65.6 31.9 65.84 31.29C66.1 30.6 66.02 30.63 67.46 30.65L68.72 30.67 68.97 31.29L69.22 31.9 69.75 31.92C70.04 31.93 70.31 31.91 70.34 31.88C70.37 31.85 70.15 31.23 69.85 30.5C69.55 29.77 69.01 28.44 68.65 27.54C68.29 26.64 67.97 25.87 67.93 25.82C67.89 25.77 67.69 25.74 67.4 25.74C67.12 25.74 66.92 25.77 66.88 25.82M72.54 25.82C72.52 25.87 72.52 27.25 72.53 28.9L72.54 31.9 74.33 31.91C76.36 31.92 76.27 31.95 76.24 31.34L76.22 30.94 74.93 30.91L73.63 30.88 73.6 28.32L73.57 25.77 73.07 25.75C72.71 25.74 72.57 25.75 72.54 25.82M81.87 25.82C81.85 25.87 81.84 27.24 81.85 28.87L81.87 31.83 82.38 31.83L82.89 31.83 82.93 30.6L82.96 29.38 84.01 29.36C85.21 29.34 85.24 29.32 85.24 28.87C85.24 28.41 85.21 28.4 84.01 28.38L82.96 28.36 82.94 27.58C82.93 27.12 82.95 26.77 82.99 26.73C83.03 26.69 83.52 26.67 84.24 26.68C85.61 26.7 85.6 26.7 85.57 26.13L85.55 25.77 83.73 25.75C82.3 25.74 81.9 25.75 81.87 25.82M87.81 25.78C87.74 25.85 87.75 31.78 87.82 31.83C87.95 31.9 91.31 31.91 91.41 31.83C91.49 31.78 91.51 31.65 91.49 31.35L91.47 30.94 90.21 30.91L88.95 30.88 88.92 28.32L88.89 25.77 88.37 25.75C88.09 25.74 87.84 25.75 87.81 25.78M95.79 25.84C95.74 25.91 95.49 26.45 95.25 27.06C95 27.66 94.64 28.51 94.45 28.94C93.7 30.65 93.33 31.57 93.32 31.73C93.31 31.9 93.32 31.9 93.86 31.9L94.4 31.9 94.57 31.56C94.67 31.37 94.79 31.09 94.86 30.93L94.97 30.64 96.38 30.65L97.8 30.67 98.01 31.22C98.29 31.97 98.25 31.93 98.83 31.93C99.56 31.93 99.56 31.95 98.86 30.3C98.13 28.58 97.18 26.32 97.07 26.04L96.97 25.77 96.43 25.75C95.99 25.73 95.87 25.75 95.79 25.84M101.77 25.79C101.75 25.82 101.72 27.19 101.71 28.83L101.69 31.83 102.2 31.87C102.48 31.9 102.73 31.9 102.75 31.87C102.78 31.85 102.81 30.99 102.81 29.97C102.82 28.69 102.85 28.12 102.9 28.14C102.94 28.15 103.27 28.77 103.64 29.52C104.01 30.27 104.4 31.05 104.5 31.25L104.68 31.63 105.07 31.65L105.45 31.67 105.79 30.96C106.75 28.97 107.19 28.12 107.24 28.17C107.27 28.2 107.3 29.01 107.32 29.97C107.34 31.29 107.37 31.74 107.43 31.83C107.54 31.95 108.29 31.96 108.39 31.83C108.42 31.79 108.43 30.41 108.4 28.77L108.36 25.77 107.83 25.75L107.3 25.73 107.16 25.95C107.08 26.08 106.6 27.03 106.09 28.07C105.48 29.31 105.13 29.95 105.06 29.94C105.01 29.93 104.5 28.98 103.92 27.83L102.87 25.74 102.33 25.74C102.04 25.74 101.78 25.76 101.77 25.79M111.35 25.82C111.33 25.87 111.33 27.25 111.34 28.9L111.35 31.9 113.33 31.88C114.41 31.86 115.33 31.83 115.36 31.8C115.39 31.77 115.4 31.57 115.39 31.35L115.37 30.94 113.94 30.91L112.51 30.88 112.51 30.09L112.51 29.31 113.74 29.28L114.96 29.24 115.01 28.87C115.08 28.3 115.15 28.33 113.76 28.31L112.51 28.29 112.51 27.51L112.51 26.72 113.87 26.69L115.23 26.66 115.28 26.25C115.3 26.02 115.31 25.82 115.29 25.79C115.23 25.69 111.39 25.73 111.35 25.82M125.1 25.82C125.09 25.87 125.08 27.24 125.09 28.87L125.11 31.83 127.13 31.85C129.41 31.87 129.25 31.91 129.17 31.32L129.12 30.94 127.73 30.91L126.33 30.88 126.27 30.14C126.19 29.16 126.11 29.22 127.58 29.19L128.78 29.17 128.78 28.77L128.78 28.36 127.6 28.34C126.86 28.33 126.38 28.29 126.32 28.25C126.21 28.15 126.19 26.79 126.3 26.72C126.34 26.7 126.98 26.67 127.71 26.67L129.06 26.66 129.06 26.21L129.06 25.77 127.1 25.75C125.57 25.74 125.13 25.75 125.1 25.82M131.71 25.81C131.68 25.85 131.66 27.2 131.65 28.8C131.65 32.17 131.6 31.93 132.29 31.87L132.73 31.83 132.75 29.84C132.77 27.72 132.79 27.6 133.08 28.03C133.14 28.14 133.43 28.51 133.72 28.87C134.01 29.22 134.63 30.04 135.11 30.67C135.59 31.31 136.04 31.86 136.11 31.89C136.18 31.93 136.38 31.93 136.59 31.89L136.95 31.83 136.95 28.8L136.95 25.77 136.49 25.75C135.77 25.72 135.81 25.6 135.84 27.77C135.87 29.95 135.87 29.96 135.32 29.23C135.13 28.98 134.43 28.09 133.77 27.25L132.56 25.74 132.16 25.74C131.93 25.74 131.73 25.77 131.71 25.81M139.81 25.81C139.79 25.86 139.79 27.24 139.79 28.87L139.81 31.83 141.24 31.85C143.18 31.87 143.72 31.73 144.48 30.98C144.92 30.54 145.12 30.16 145.27 29.47C145.61 27.85 144.95 26.61 143.39 25.94C143.04 25.79 142.9 25.78 141.43 25.75C140.14 25.73 139.84 25.74 139.81 25.81M147.93 25.78C147.84 25.87 147.87 31.78 147.97 31.84C148.12 31.94 151.61 31.93 151.7 31.83C151.74 31.78 151.76 31.56 151.75 31.34L151.73 30.94 150.45 30.93C149.51 30.91 149.16 30.89 149.14 30.82C149.13 30.78 149.1 29.65 149.08 28.31C149.06 26.97 149.03 25.84 149 25.8C148.96 25.73 148 25.71 147.93 25.78M154.09 25.82C154.05 25.88 154.02 26.9 154.03 28.87L154.04 31.83 156.01 31.88C157.46 31.92 158 31.91 158.07 31.85C158.14 31.8 158.16 31.65 158.15 31.36L158.13 30.94 156.7 30.91L155.27 30.88 155.22 30.13C155.18 29.63 155.19 29.36 155.24 29.3C155.3 29.23 155.64 29.21 156.55 29.19L157.79 29.17 157.79 28.77L157.79 28.36 156.53 28.32L155.27 28.29 155.21 27.59C155.18 27.2 155.17 26.84 155.19 26.79C155.22 26.71 155.48 26.69 156.59 26.69C158.14 26.69 158.11 26.7 158.08 26.13L158.06 25.77 156.11 25.75C154.61 25.74 154.15 25.75 154.09 25.82M177.8 25.82C177.78 25.87 177.78 27.24 177.79 28.87L177.8 31.83 178.31 31.83L178.83 31.83 178.86 30.88L178.89 29.92 179.83 29.88C180.93 29.82 181.31 29.72 181.8 29.33C182.27 28.96 182.47 28.51 182.48 27.8C182.5 26.72 181.94 26.06 180.78 25.81C180.26 25.7 177.84 25.71 177.8 25.82M192.78 25.82C192.76 25.87 193.07 26.86 193.47 28.02C193.87 29.18 194.31 30.49 194.46 30.94C194.8 31.96 194.77 31.93 195.37 31.93C195.96 31.93 195.93 31.97 196.24 30.98C197.12 28.14 197.27 27.71 197.36 27.71C197.41 27.71 197.45 27.76 197.45 27.82C197.45 27.95 198.56 31.46 198.69 31.72C198.77 31.89 198.8 31.9 199.35 31.9L199.93 31.9 200.69 29.65C201.11 28.42 201.56 27.09 201.7 26.7C202.05 25.69 202.06 25.73 201.34 25.75L200.75 25.77 200.47 26.66C200.31 27.14 200 28.13 199.78 28.85C199.57 29.57 199.36 30.16 199.32 30.16C199.28 30.16 198.92 29.17 198.52 27.97L197.8 25.77 197.36 25.75C196.87 25.73 196.83 25.75 196.71 26.21C196.46 27.12 195.44 30.09 195.38 30.07C195.35 30.06 195.03 29.12 194.67 27.98C194.32 26.84 194 25.87 193.96 25.82C193.91 25.77 193.7 25.74 193.35 25.74C192.98 25.74 192.8 25.76 192.78 25.82M204.15 25.82C204.13 25.87 204.13 27.24 204.14 28.87L204.15 31.83 206.16 31.83L208.17 31.83 208.17 31.39L208.17 30.94 206.77 30.91L205.38 30.88 205.36 30.14C205.35 29.65 205.37 29.37 205.42 29.3C205.48 29.23 205.74 29.21 206.6 29.21C207.87 29.21 207.88 29.2 207.85 28.69L207.83 28.36 206.6 28.32L205.38 28.29 205.32 27.6C205.23 26.61 205.11 26.69 206.66 26.69C208.18 26.69 208.16 26.7 208.12 26.13L208.1 25.77 206.14 25.75C204.61 25.74 204.18 25.75 204.15 25.82M210.76 25.8C210.7 25.9 210.7 31.8 210.77 31.86C210.8 31.89 211.06 31.9 211.34 31.87L211.85 31.83 211.88 30.81L211.91 29.79 212.46 29.77C213.12 29.74 213.08 29.72 213.72 30.77C214.46 32 214.38 31.93 215.05 31.93C215.76 31.93 215.79 31.89 215.44 31.35C215.29 31.13 214.99 30.66 214.76 30.31C214.32 29.65 214.3 29.55 214.57 29.43C215.14 29.17 215.5 28.59 215.54 27.85C215.59 27.1 215.48 26.79 215.05 26.37C214.48 25.81 214.14 25.74 212.29 25.74C211.46 25.74 210.78 25.76 210.76 25.8M178.9 26.67C178.8 26.77 178.85 28.78 178.96 28.87C179.11 28.99 180.46 28.93 180.74 28.78C181.08 28.6 181.27 28.29 181.29 27.85C181.35 27.02 180.82 26.62 179.64 26.62C179.26 26.62 178.93 26.64 178.9 26.67M187.3 26.67C186.3 26.83 185.52 27.89 185.62 28.93C185.72 30.04 186.32 30.73 187.34 30.92C189.29 31.28 190.51 28.89 189.18 27.32C188.83 26.9 187.87 26.57 187.3 26.67M211.91 26.7C211.89 26.75 211.89 27.26 211.9 27.82L211.91 28.83 212.73 28.83C213.43 28.83 213.59 28.81 213.82 28.69C214.61 28.28 214.61 27.21 213.82 26.8C213.47 26.62 211.98 26.54 211.91 26.7M51.37 26.76C51.3 26.87 51.29 28.68 51.36 28.78C51.43 28.89 52.48 28.9 52.86 28.79C53 28.75 53.23 28.62 53.37 28.5C53.6 28.29 53.61 28.24 53.64 27.8C53.67 27.26 53.5 26.97 53.06 26.78C52.79 26.67 51.43 26.65 51.37 26.76M140.97 26.78C140.95 26.82 140.94 27.76 140.95 28.87L140.97 30.88 141.71 30.9C142.63 30.92 143.01 30.81 143.46 30.39C144.63 29.3 144.22 27.23 142.75 26.79C142.31 26.66 141.01 26.65 140.97 26.78M95.84 28.39C95.59 29.03 95.4 29.58 95.42 29.62C95.48 29.72 97.28 29.71 97.31 29.6C97.34 29.52 97.2 29.14 96.74 28.07C96.6 27.72 96.48 27.39 96.48 27.33C96.48 27.28 96.44 27.23 96.39 27.23C96.33 27.23 96.11 27.7 95.84 28.39M67.3 27.37C67.18 27.56 66.46 29.58 66.49 29.63C66.54 29.7 68.2 29.7 68.25 29.63C68.29 29.56 67.46 27.3 67.39 27.3C67.37 27.3 67.32 27.33 67.3 27.37M117.82 30.71C117.17 31.28 117.9 32.3 118.67 31.9C119.15 31.65 119.23 31.11 118.85 30.73C118.53 30.42 118.17 30.41 117.82 30.71M218.24 30.63C217.62 31.01 217.89 31.93 218.62 31.93C218.89 31.93 218.97 31.9 219.15 31.71C219.77 31.07 219.01 30.16 218.24 30.63';
+/** Orange parts: "FLAME" and the tagline rules */
+export const NAME_ORANGE =
+  'M135.44 0.34C134.61 0.75 134.03 1.51 133.86 2.44C133.75 3.02 133.78 18.77 133.89 18.86C133.95 18.91 134.64 18.93 136.01 18.91L138.04 18.89 138.33 18.71C138.49 18.61 138.7 18.38 138.8 18.2L139 17.87 139.03 14.88L139.06 11.88 144.18 11.86L149.31 11.85 149.59 11.35C149.75 11.08 150.28 10.22 150.76 9.44C151.46 8.32 151.63 7.99 151.58 7.91C151.52 7.81 150.9 7.79 145.29 7.76L139.06 7.73 139.06 6.03L139.06 4.32 144.86 4.31L150.66 4.29 151.26 3.35C151.58 2.84 152.17 1.94 152.56 1.35C153.01 0.68 153.26 0.24 153.24 0.17C153.2 0.08 152.29 0.07 144.6 0.07L136 0.07 135.44 0.34M154.18 0.15C154.16 0.2 154.15 4.42 154.16 9.53L154.18 18.83 162.28 18.84C171.11 18.86 170.54 18.89 170.66 18.49C170.69 18.42 170.81 18.2 170.93 18.01C171.05 17.82 171.46 17.13 171.85 16.48C172.23 15.82 172.6 15.2 172.67 15.1C172.82 14.88 172.83 14.75 172.71 14.65C172.64 14.59 170.77 14.57 166.05 14.55L159.49 14.54 159.47 7.39C159.46 2.25 159.43 0.23 159.38 0.16C159.27 0.03 154.23 0.02 154.18 0.15M183.25 0.15C182.85 0.29 182.61 0.55 182.22 1.24C181.75 2.08 180.58 4.1 179.68 5.65C179.31 6.27 178.87 7.03 178.69 7.35C177.78 8.96 177.26 9.87 176.68 10.86C176.33 11.46 175.84 12.3 175.59 12.73C175.34 13.16 174.99 13.76 174.81 14.06C174.63 14.36 174.2 15.11 173.84 15.73C173.49 16.35 172.93 17.29 172.61 17.82C172.3 18.36 172.05 18.81 172.07 18.84C172.09 18.86 173.34 18.87 174.85 18.87C178.06 18.87 177.6 19.03 178.39 17.67C178.7 17.14 179.09 16.47 179.27 16.17C179.61 15.59 180.36 14.31 181.01 13.17C181.23 12.8 181.63 12.11 181.91 11.64C182.19 11.17 182.76 10.19 183.19 9.45C184.49 7.18 185.01 6.33 185.12 6.33C185.19 6.33 185.36 6.59 185.56 6.96C185.74 7.31 186.04 7.84 186.21 8.14C186.39 8.44 186.74 9.06 187 9.53C187.44 10.34 187.9 11.13 188.63 12.36C188.81 12.66 189.08 13.13 189.23 13.41C189.38 13.69 189.68 14.22 189.9 14.59C190.12 14.96 190.3 15.28 190.3 15.29C190.3 15.31 190.37 15.44 190.47 15.59C190.56 15.74 190.99 16.5 191.42 17.27C191.86 18.05 192.27 18.74 192.34 18.8C192.49 18.93 198.21 18.93 198.25 18.8C198.28 18.72 198.08 18.37 196.73 16.14C195.59 14.23 195.42 13.94 194.11 11.68C193.47 10.55 192.85 9.5 192.75 9.33C192.53 8.98 191.59 7.32 191.25 6.71C191.13 6.48 190.85 5.99 190.64 5.62C189.55 3.72 189.11 2.93 188.53 1.87C187.51 0.01 187.61 0.07 185.16 0.07C184.16 0.08 183.37 0.11 183.25 0.15M199.44 0.15C199.32 0.27 199.31 18.72 199.43 18.85C199.49 18.91 200.05 18.93 201.53 18.93C203.8 18.92 203.9 18.9 204.31 18.42C204.66 17.99 204.66 17.93 204.66 12.97C204.66 9.27 204.68 8.37 204.75 8.37C204.8 8.37 205.08 8.64 205.38 8.97C205.68 9.3 206.74 10.44 207.73 11.5C208.72 12.57 209.88 13.82 210.31 14.28C210.73 14.74 211.18 15.17 211.29 15.23C211.63 15.41 213.96 15.45 214.56 15.29L214.99 15.17 217.21 12.81C220.24 9.59 221.6 8.24 221.68 8.37C221.72 8.43 221.75 10.35 221.75 13.07C221.76 18.04 221.76 18.03 222.13 18.45C222.51 18.86 222.52 18.86 224.85 18.84L226.96 18.83 226.96 9.46L226.96 0.1 224.93 0.08C222.31 0.05 222.54-0.02 221.35 1.24C220.85 1.78 219.53 3.16 218.42 4.32C217.31 5.48 215.7 7.17 214.84 8.07C213.98 8.97 213.25 9.71 213.21 9.72C213.12 9.74 211.55 8.15 209.8 6.27C209.09 5.5 208.17 4.52 207.76 4.09C207.35 3.66 206.4 2.65 205.67 1.86C203.89-0.04 204.24 0.11 201.6 0.08C200.02 0.07 199.5 0.08 199.44 0.15M232.06 0.22C231.3 0.55 230.78 1.1 230.35 2.02L230.16 2.42 230.14 10.58C230.13 16.82 230.14 18.76 230.21 18.84C230.31 18.96 248.46 18.95 248.66 18.82C248.73 18.78 249.01 18.37 249.3 17.9C249.58 17.44 250.07 16.63 250.39 16.1C250.71 15.58 251.03 15.07 251.11 14.96C251.44 14.55 251.87 14.57 243.28 14.55L235.47 14.54 235.47 13.04L235.47 11.54 241.2 11.52C246.55 11.51 246.93 11.5 247.03 11.39C247.08 11.32 247.49 10.69 247.94 9.97C248.38 9.26 248.89 8.48 249.07 8.23C249.4 7.76 249.46 7.56 249.3 7.43C249.24 7.38 247.28 7.35 242.34 7.34L235.47 7.32 235.47 5.82L235.47 4.32 242 4.31C247.95 4.29 248.55 4.28 248.66 4.18C248.73 4.12 248.97 3.77 249.2 3.41C249.67 2.68 250.1 2.01 250.79 0.97C251.16 0.4 251.23 0.25 251.16 0.17C251.09 0.08 249.82 0.07 241.74 0.07L232.41 0.07 232.06 0.22M183.54 10.84C183.44 10.92 182.88 11.8 182.88 11.88C182.88 11.9 182.74 12.14 182.58 12.41C182.06 13.27 181.51 14.24 181.51 14.3C181.51 14.37 182.16 14.73 182.47 14.83C182.82 14.95 186.77 15.01 187.43 14.91C187.96 14.83 188.71 14.51 188.77 14.34C188.79 14.29 188.62 13.9 188.38 13.47C188.15 13.05 187.77 12.35 187.53 11.91C187.3 11.48 187.06 11.05 187 10.94L186.9 10.76 185.28 10.76C184.08 10.76 183.62 10.78 183.54 10.84M23.11 27.99C21.79 28.09 19.97 28.19 17.57 28.29C16.24 28.35 14.6 28.42 13.92 28.46C13.25 28.5 11.7 28.57 10.49 28.63C9.27 28.69 7.2 28.79 5.89 28.86C4.58 28.94 2.82 29.03 1.98 29.07C1.14 29.11 0.43 29.16 0.42 29.18C0.32 29.27 0.62 29.3 2.19 29.35C3.14 29.38 4.56 29.44 5.34 29.48C6.13 29.51 7.19 29.56 7.69 29.58C9 29.64 12.95 29.81 14.88 29.89C16.49 29.96 18.91 30.09 21.65 30.24C22.42 30.28 23.48 30.32 24 30.32L24.95 30.33 24.95 29.14L24.95 27.95 24.37 27.94C24.06 27.94 23.49 27.96 23.11 27.99M224.92 28C224.9 28.05 224.89 28.59 224.9 29.21L224.92 30.33 225.4 30.35C225.66 30.36 226.81 30.33 227.95 30.27C229.09 30.21 231.11 30.12 232.44 30.06C233.77 30 235.52 29.93 236.32 29.89C237.13 29.85 239.17 29.76 240.85 29.68C242.54 29.61 244.44 29.52 245.07 29.48C245.71 29.44 246.93 29.39 247.8 29.37C250.97 29.3 251.18 29.18 248.31 29.07C246.47 29 244 28.89 241.16 28.73C240.46 28.69 239.29 28.63 238.54 28.6C236.72 28.51 233.03 28.34 231.18 28.26C230.36 28.22 228.72 28.13 227.54 28.05C224.99 27.89 224.96 27.89 224.92 28';

diff --git a/src/components/ui/Logo/Logo.tsx b/src/components/ui/Logo/Logo.tsx
@@ -3,24 +3,15 @@ import {
   MARK_FLAME,
   MARK_P,
   MARK_VIEWBOX,
-  TAGLINE_RULES,
-  TAGLINE_TEXT,
-  WORD_FLAME,
-  WORD_POWER,
-  WORDMARK_HEIGHT,
-  WORDMARK_WIDTH,
+  NAME_HEIGHT,
+  NAME_NAVY,
+  NAME_ORANGE,
+  NAME_WIDTH,
 } from './paths';
 import styles from './Logo.module.css';
 
-/* Lockup geometry, matching public/logo.svg: mark | wordmark over tagline */
-const LOCKUP_HEIGHT = 72;
-const TEXT_X = 84;
-const WORD_Y = 18;
-const TAGLINE_Y = WORD_Y + WORDMARK_HEIGHT + 7;
-const LOCKUP_WIDTH = Math.ceil(TEXT_X + WORDMARK_WIDTH + 4);
-
 interface LogoProps {
-  /** 'full' = the complete lockup, 'mark' = the flame-P mark only */
+  /** 'full' = mark + name, 'mark' = the flame-P mark only */
   variant?: 'full' | 'mark';
   /** 'dark' for light backgrounds, 'light' for dark backgrounds */
   tone?: 'dark' | 'light';
@@ -28,36 +19,21 @@ interface LogoProps {
 }
 
 export function Logo({ variant = 'full', tone = 'dark', className }: LogoProps) {
-  const mark = (
-    <>
-      <path d={MARK_FLAME} fillRule="evenodd" className={styles.orange} />
-      <path d={MARK_P} fillRule="evenodd" className={styles.navy} />
-    </>
-  );
-
   return (
     <span className={cn(styles.logo, styles[tone], className)}>
-      {variant === 'mark' ? (
-        <svg className={styles.mark} viewBox={MARK_VIEWBOX} aria-hidden="true" focusable="false">
-          {mark}
-        </svg>
-      ) : (
+      <svg className={styles.mark} viewBox={MARK_VIEWBOX} aria-hidden="true" focusable="false">
+        <path d={MARK_FLAME} fillRule="evenodd" className={styles.orange} />
+        <path d={MARK_P} fillRule="evenodd" className={styles.navy} />
+      </svg>
+      {variant === 'full' && (
         <svg
-          className={styles.lockup}
-          viewBox={`0 0 ${LOCKUP_WIDTH} ${LOCKUP_HEIGHT}`}
+          className={styles.name}
+          viewBox={`0 0 ${NAME_WIDTH} ${NAME_HEIGHT}`}
           aria-hidden="true"
           focusable="false"
         >
-          <g transform="translate(4 4) scale(1.333)">{mark}</g>
-          <rect x="66" y="14" width="2" height="44" className={styles.navy} />
-          <g transform={`translate(${TEXT_X} ${WORD_Y})`}>
-            <path d={WORD_POWER} fillRule="evenodd" className={styles.navy} />
-            <path d={WORD_FLAME} fillRule="evenodd" className={styles.orange} />
-          </g>
-          <g transform={`translate(${TEXT_X} ${TAGLINE_Y})`}>
-            <path d={TAGLINE_RULES} fillRule="evenodd" className={styles.orange} />
-            <path d={TAGLINE_TEXT} fillRule="evenodd" className={styles.navy} />
-          </g>
+          <path d={NAME_NAVY} fillRule="evenodd" className={styles.navy} />
+          <path d={NAME_ORANGE} fillRule="evenodd" className={styles.orange} />
         </svg>
       )}
       <span className="sr-only">Powerflame: Eternal flame. Endless power.</span>

diff --git a/src/components/ui/Logo/Logo.module.css b/src/components/ui/Logo/Logo.module.css
@@ -1,18 +1,29 @@
 .logo {
   display: inline-flex;
   align-items: center;
+  gap: var(--space-3);
 }
 
-.lockup {
-  display: block;
-  width: auto;
-  height: 3rem;
-}
-
+/* The mark stands taller than the name block so neither looks squashed */
 .mark {
   display: block;
   width: auto;
-  height: 2.5rem;
+  height: 2.75rem;
+  flex-shrink: 0;
+}
+
+.name {
+  display: block;
+  width: auto;
+  height: 1.5rem;
+}
+
+.light .mark {
+  height: 3.25rem;
+}
+
+.light .name {
+  height: 2.125rem;
 }
 
 .orange {
@@ -26,8 +37,4 @@
 /* On dark backgrounds the navy parts switch to cream so they stay visible */
 .light .navy {
   fill: var(--color-cream);
-}
-
-.light .lockup {
-  height: 3.5rem;
 }
